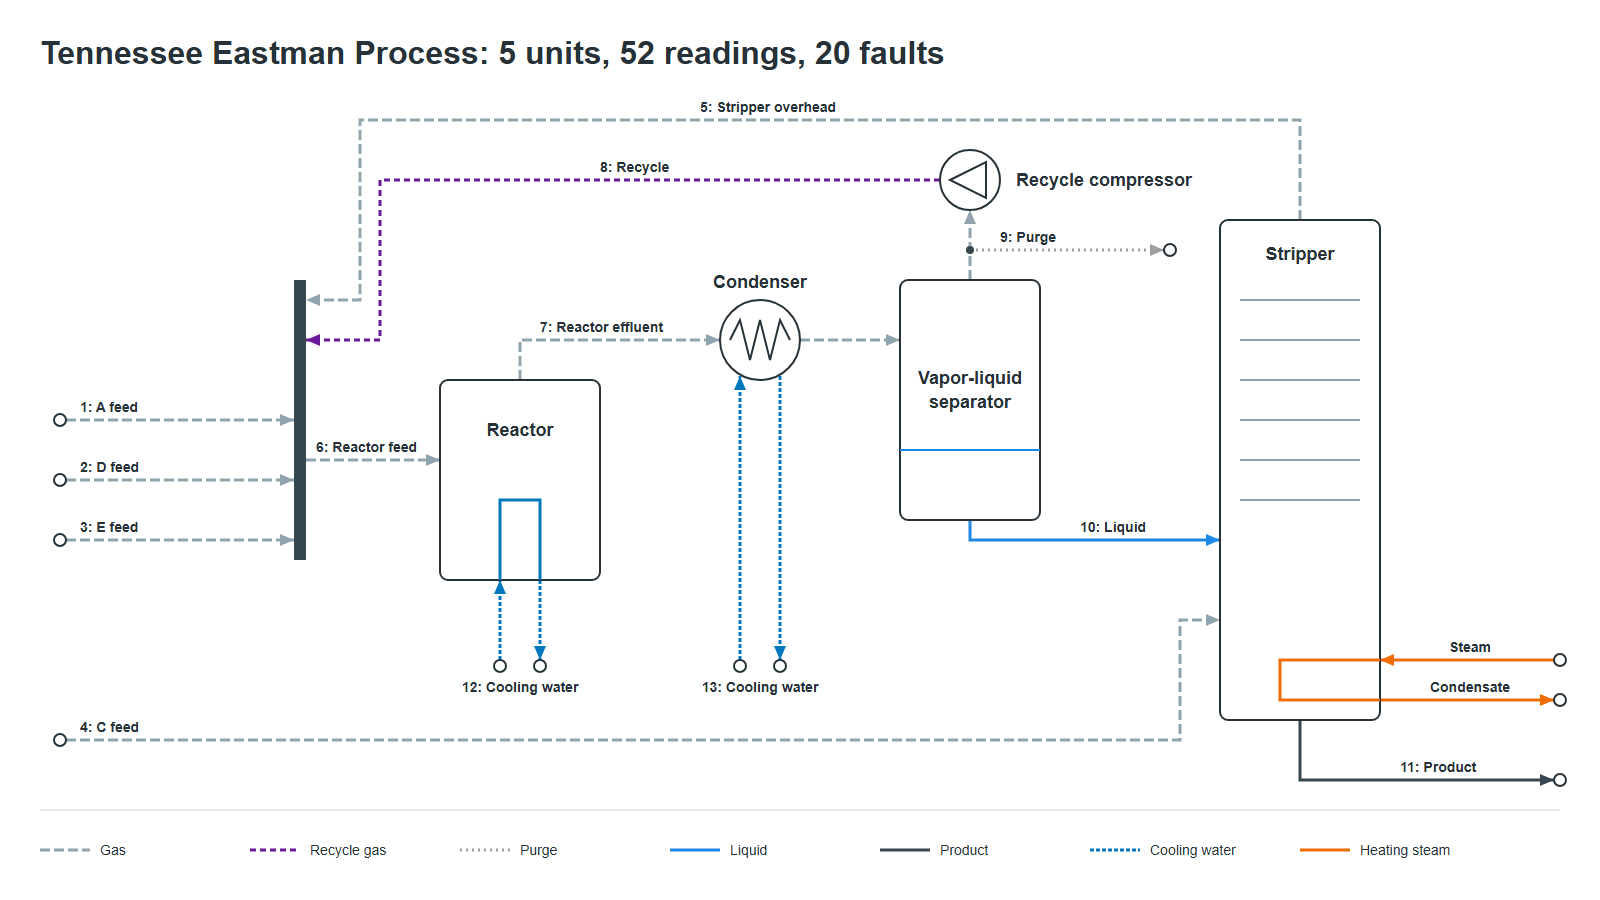
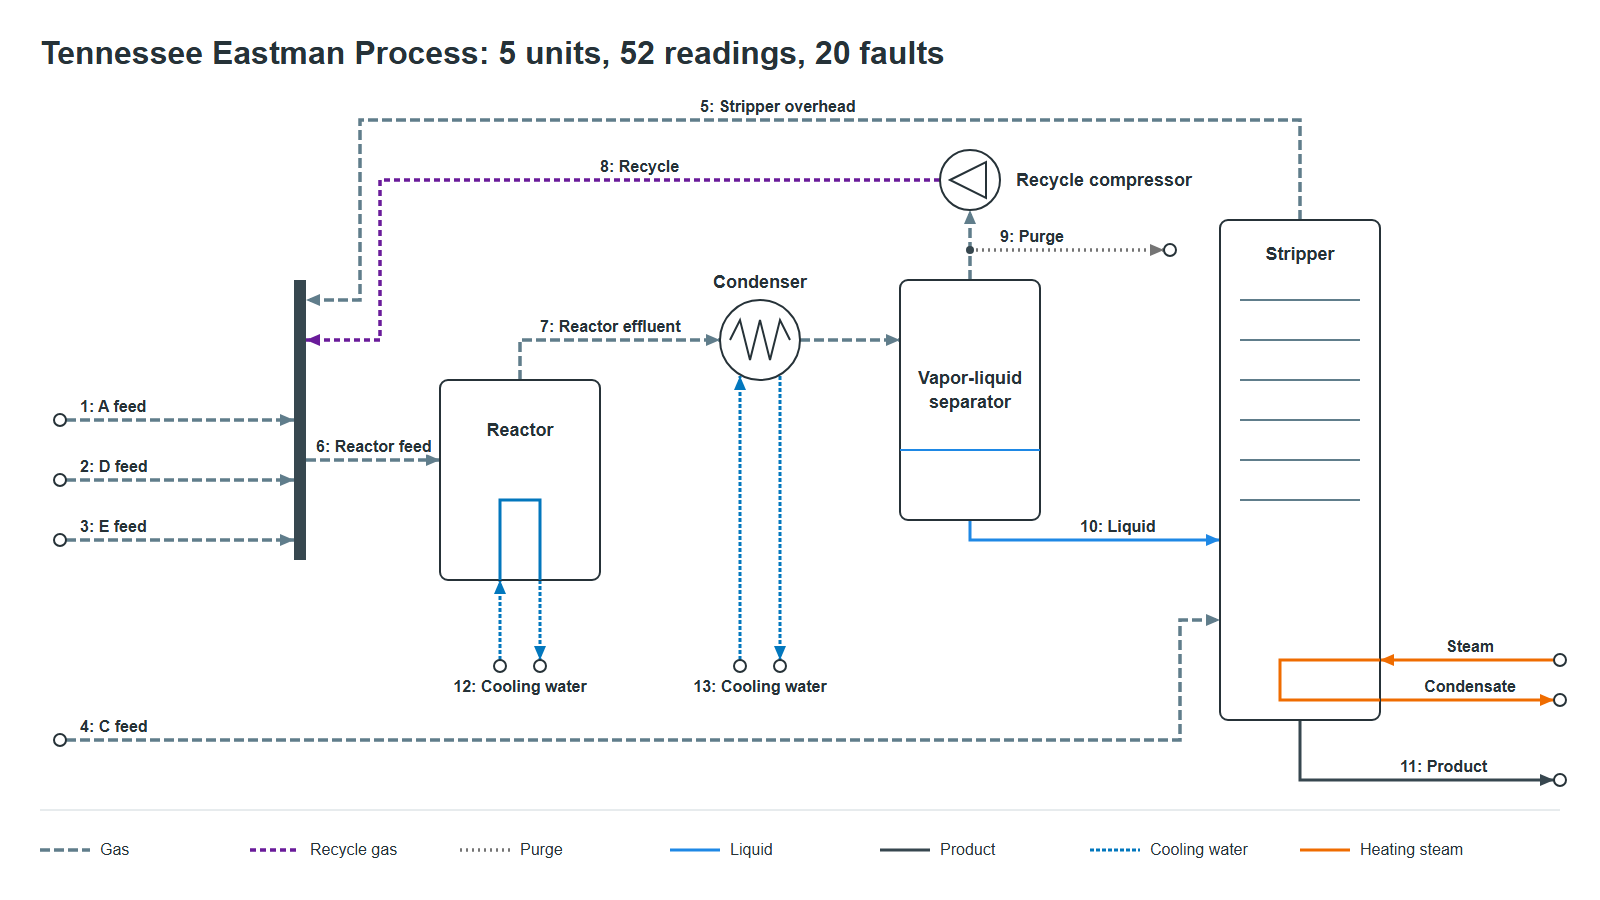
post 1: diagram readability (contrast, 16 px labels)

diff --git a/tests/test_pfd.py b/tests/test_pfd.py
@@ -140,7 +140,7 @@ class TestStyle(unittest.TestCase):
     def test_only_three_font_sizes_and_units_at_least_18(self):
         root = _root()
         sizes = {int(t.get("font-size")) for t in root.iter(NS + "text")}
-        self.assertEqual(sizes, {14, 18, 32})
+        self.assertEqual(sizes, {16, 18, 32})
         for g in root.iter(NS + "g"):
             if g.get("class") == "unit":
                 for t in g.iter(NS + "text"):
